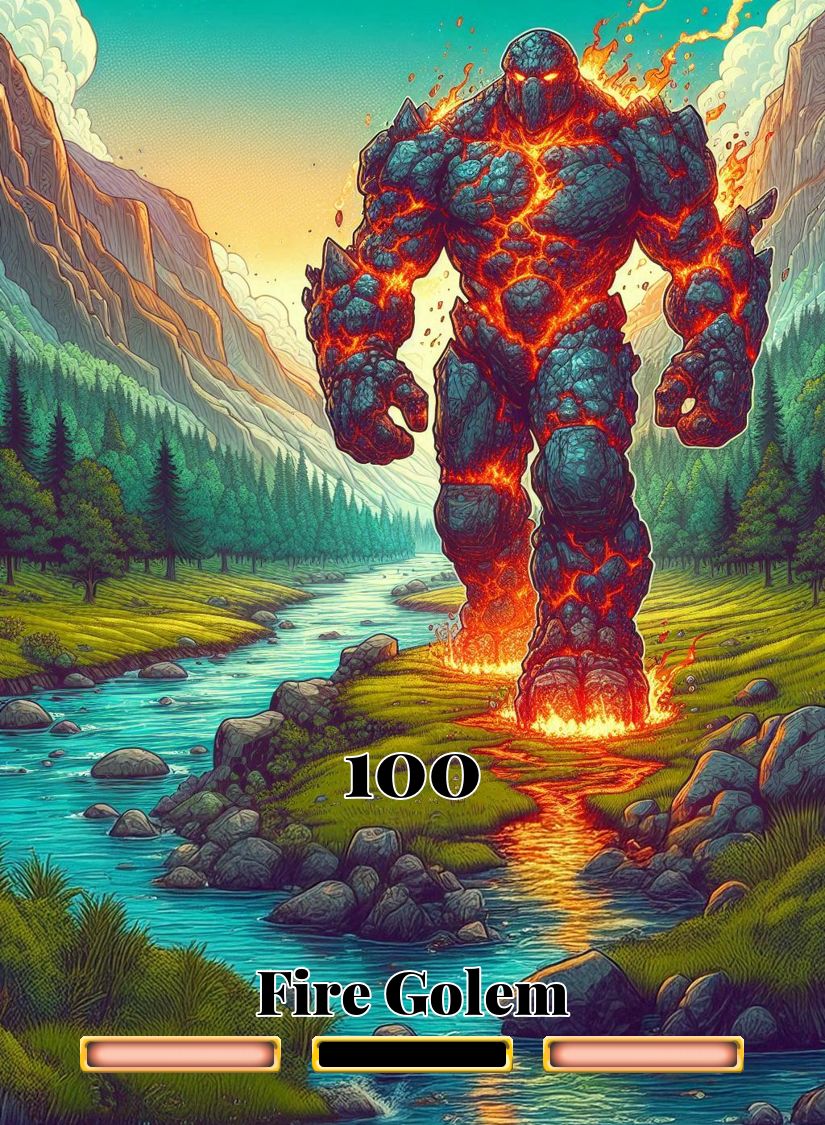
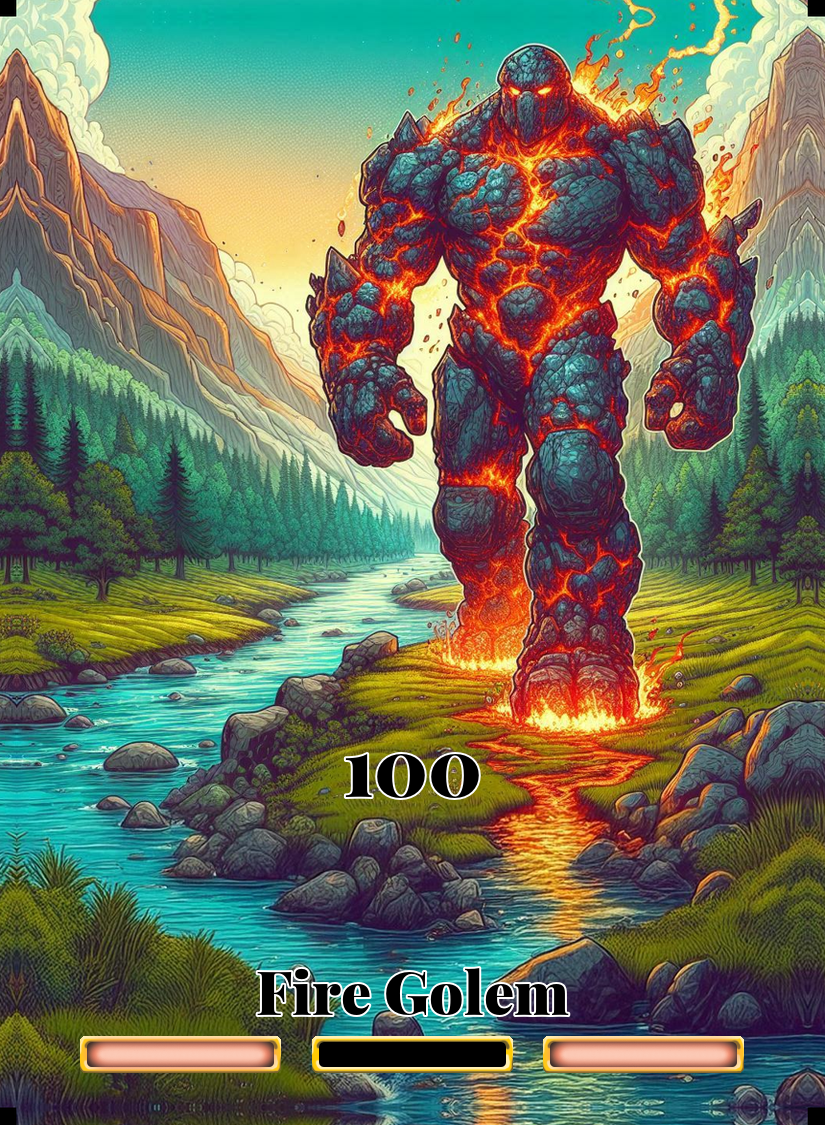
Mirrored for full arts

diff --git a/GenerateCards.py b/GenerateCards.py
@@ -112,7 +112,7 @@ class CardCreator:
         # Import artwork and crop
         if full_art:
             artwork = Image.open(
-                f"cropped_images/printable_versions/full_arts/{dict["artwork"].split(".")[0]}_extended.png"
+                f"cropped_images/printable_versions/mirrored_edges/full_arts/{dict["artwork"].split(".")[0]}_extended.png"
             )
         else:
             artwork = Image.open(
@@ -706,7 +706,7 @@ class CardCreator:
         # Save result
         if full_art:
             resized_image.save(
-                f"cropped_images/printable_versions/mirrored_edges/{artwork_path.split('/')[-1]}",
+                f"cropped_images/printable_versions/mirrored_edges/full_arts/{artwork_path.split('/')[-1]}",
             )
         else:
             resized_image.save(
